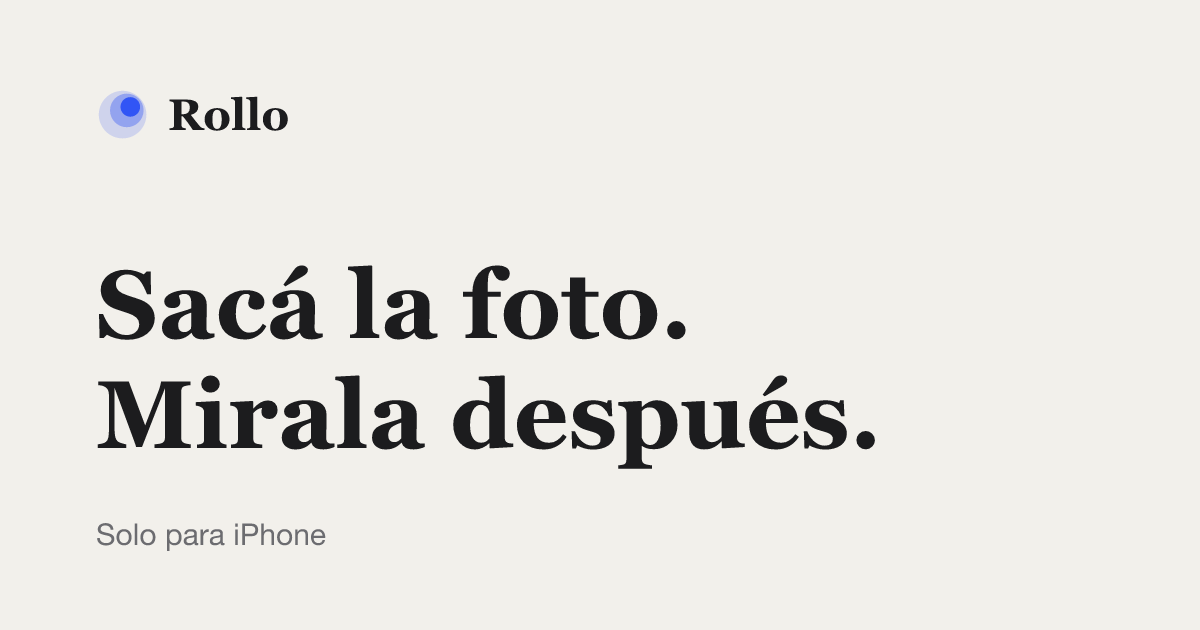
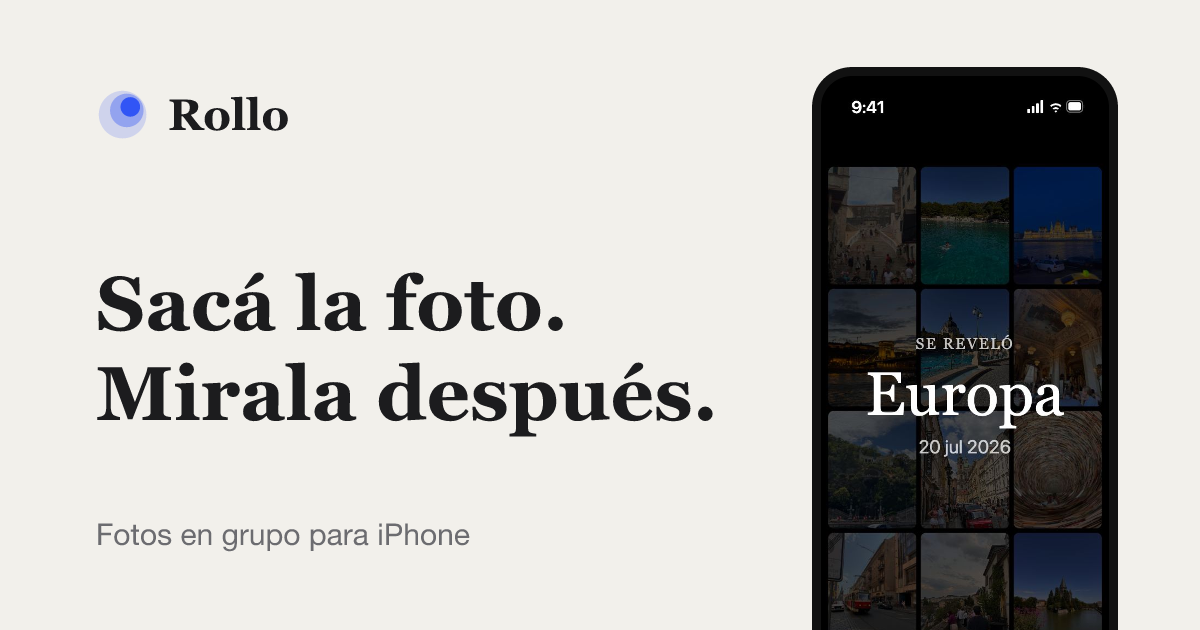
Landing: nueva imagen para compartir y notas en CLAUDE.md

Changed region(s): [[0.0617, 0.0905, 0.9558, 1.0], [0.0617, 0.4222, 0.5858, 0.5429], [0.0617, 0.8143, 0.4008, 0.8746]]

diff --git a/CLAUDE.md b/CLAUDE.md
@@ -476,7 +476,10 @@ Son las URLs de privacidad, soporte (`https://rollo.juanifraga.com/soporte`) y m
 - **Animaciones:** Motion (`animate`, `inView`) empaquetado con esbuild en `/motion.js` (servido desde el sitio, sin CDN) +
   `scripts/site/landing.js`. Con "Reducir movimiento" o sin JS la página queda en su estado final (fotos nítidas).
   Ojo: en Motion no animar a `transform: "none"` (lo vuelve una matriz de escala 0); usar `y`.
-- **Imagen para compartir:** `npm run og` regenera `scripts/site/og.png` (1200×630, `scripts/build-og.mjs`); se commitea.
+- **Analytics:** Cloudflare Web Analytics (sin cookies, solo vistas). Pegar el token en `CF_ANALYTICS_TOKEN` de `build-site.mjs` (o `SITE_CF_ANALYTICS_TOKEN`); sin token no se agrega nada. El beacon va en todas las páginas menos `/entrar`; en `/friends` el CSP suma `static.cloudflareinsights.com` solo cuando hay token.
+- **QR en desktop:** el hero lleva un QR inline (`qrcode`, generado en el build, del link de TestFlight o de la App Store según `STORE_MODE`) con "Escaneá con tu iPhone"; solo se ve en pantallas anchas con mouse (`hover:hover` + `pointer:fine`).
+- **Smart App Banner:** con `STORE_MODE === "appstore"` la home suma `apple-itunes-app` (app-id 6825843502); en beta no hay nada.
+- **Imagen para compartir:** `npm run og` regenera `scripts/site/og.png` (1200×630, `scripts/build-og.mjs`: título a la izquierda y el still del revelado en un marco de teléfono a la derecha); se commitea.
 Contacto: `soporte@juanifraga.com` (Email Routing de Cloudflare → Gmail de Juani).
 
 ## Apple
